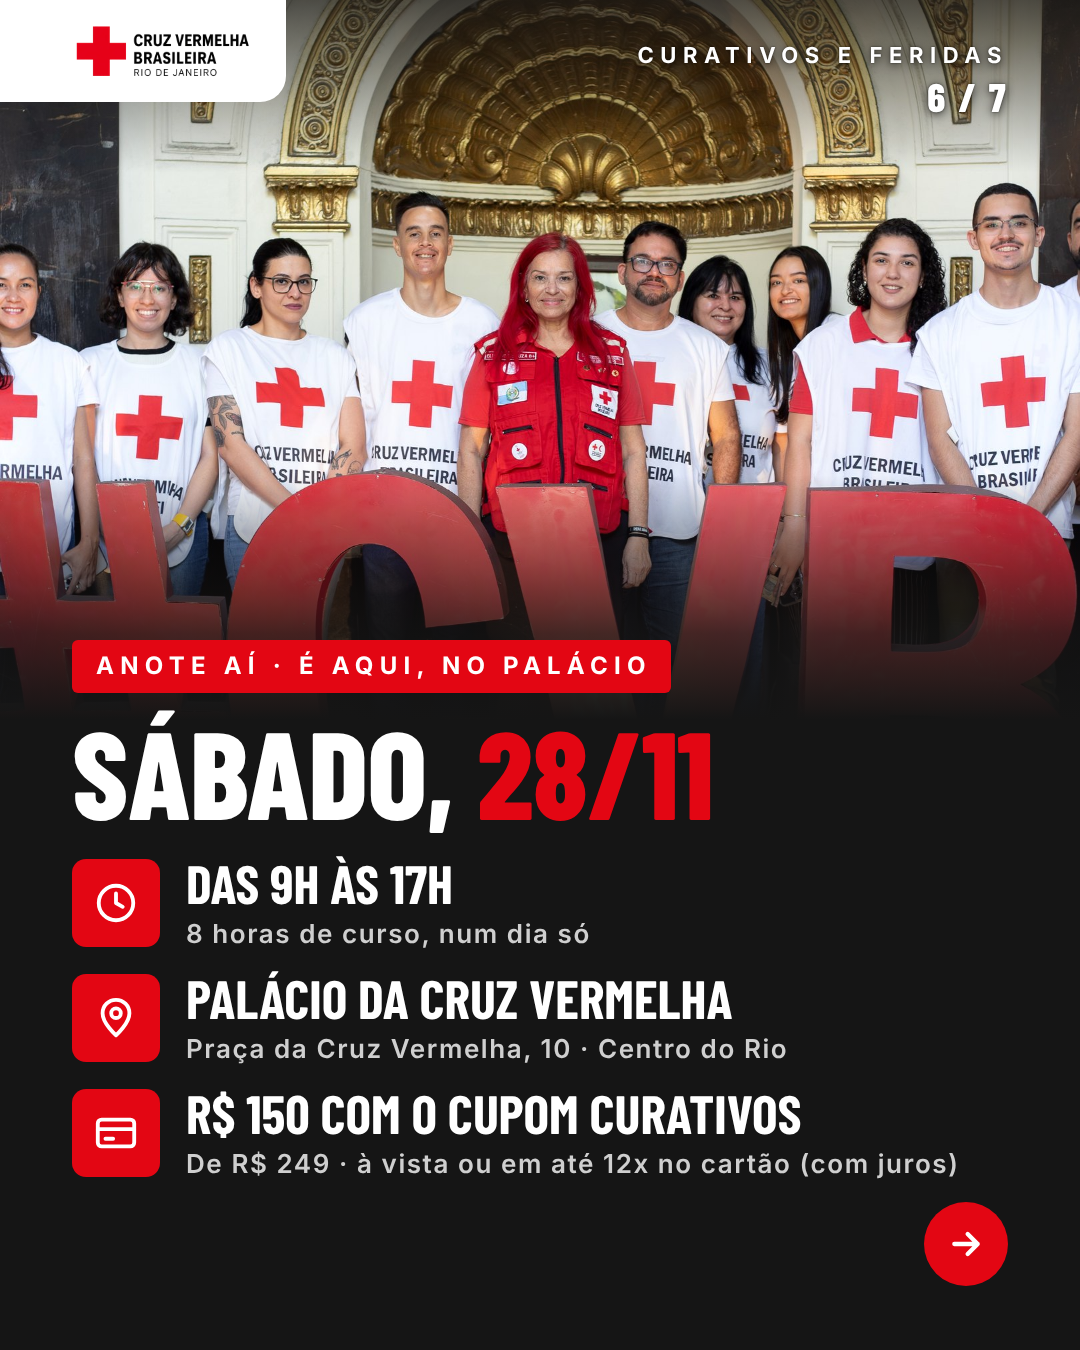
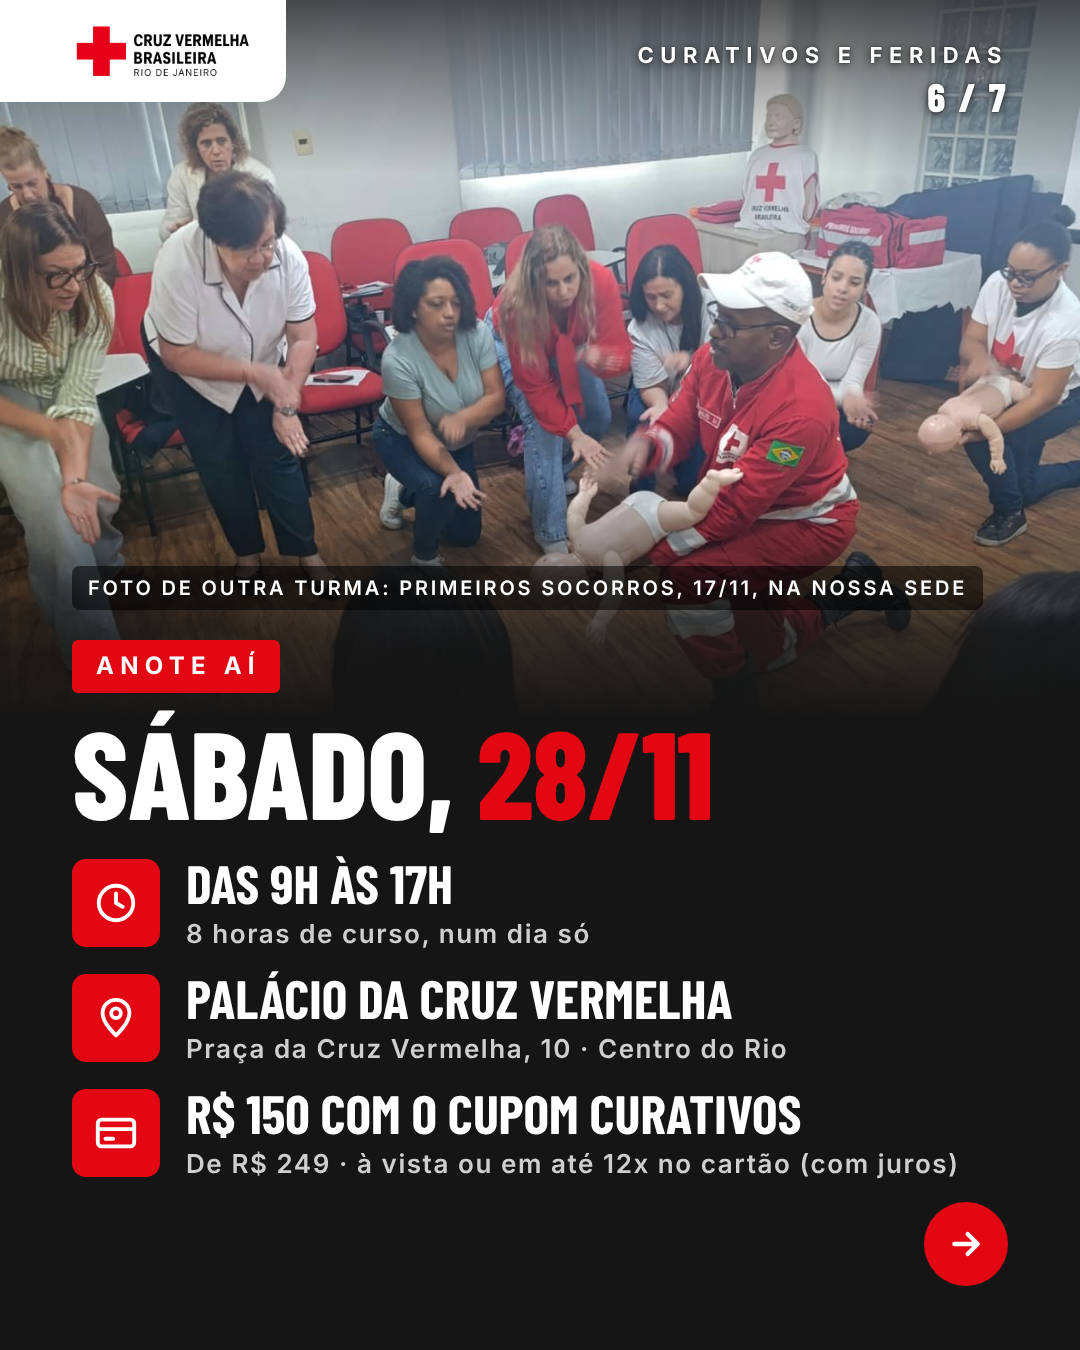
Carrossel de Curativos: slide 6 com foto de treinamento da turma de 17/11
Claude-Session: https://claude.ai/code/session_018phLKcwd6cnmyNAojLSjcG

diff --git a/docs/criativos/carrossel-curativos-28-11/carrossel.html b/docs/criativos/carrossel-curativos-28-11/carrossel.html
@@ -183,7 +183,7 @@ p.t b{color:#fff;font-weight:700}.claro p.t b{color:var(--ink)}
 
 <!-- 6. QUANDO, ONDE, QUANTO -->
 <section class="s" id="s6">
-  <div class="foto" style="height:720px;background-image:url(img/saguao.jpg);background-size:1080px auto;background-position:50% 12%"></div>
+  <div class="foto" style="height:720px;background-image:url(img/treino.jpg);background-size:1080px auto;background-position:50% 22%"></div>
   <style>
     #s6 .foto::after{background:linear-gradient(180deg,rgba(21,21,21,.72) 0%,rgba(21,21,21,0) 24%,rgba(21,21,21,0) 66%,rgba(21,21,21,.8) 88%,#151515 100%)}
     #s6 ul{list-style:none;display:grid;gap:22px}
@@ -195,8 +195,9 @@ p.t b{color:#fff;font-weight:700}.claro p.t b{color:var(--ink)}
   </style>
   <div class="logo p"><img src="img/logo.png" alt=""></div>
   <div class="num">Curativos e feridas<b>6 / 7</b></div>
+  <div class="cred" style="left:72px;top:566px">Foto de outra turma: Primeiros Socorros, 17/11, na nossa sede</div>
   <div class="c" style="top:640px">
-    <span class="tag">Anote aí · é aqui, no Palácio</span>
+    <span class="tag">Anote aí</span>
     <h2 style="margin-top:18px;font-size:124px">Sábado, <span style="display:inline">28/11</span></h2>
   </div>
   <div class="c" style="top:856px;right:72px">

diff --git a/docs/criativos/carrossel-curativos-28-11/LEIAME.md b/docs/criativos/carrossel-curativos-28-11/LEIAME.md
@@ -3,8 +3,7 @@
 - `slide-1.png` a `slide-7.png`: as artes prontas (4:5, 1080x1350), na ordem de publicação.
 - `carrossel.html` é a fonte; `node render.js` (Playwright) regenera os PNG.
 - Fotos reais, sem banco de imagem: a turma de Primeiros Socorros de 17/11/2026 na sede (enviadas pelo Matheus; slides
-  1 e 4), a equipe no saguão do Palácio (post do Instagram de 28/05/2026; slide 6) e a equipe em frente ao Palácio
-  (post do Instagram de 25/09/2026; slide 7). Não há foto de aula de curativos: o slide 4 diz de que turma é a foto, e a legenda também.
+  1, 4 e 6) e a equipe em frente ao Palácio (post do Instagram de 25/09/2026; slide 7). Não há foto de aula de curativos: o slide 4 diz de que turma é a foto, e a legenda também.
 - Passou por uma segunda avaliação, independente, antes de fechar (nota 7 na primeira versão); as correções dela
   estão aplicadas: prazo e público na capa, requisito de ensino médio, recortes das fotos e crédito das fotos.
 - Estrutura: 1 pergunta-gancho · 2 a dúvida de quem cuida de feridas · 3 o que se aprende · 4 como é a aula ·
@@ -54,5 +53,5 @@ O curso é de aperfeiçoamento: não substitui a formação profissional nem amp
 3. Texto: O que você aprende, da avaliação ao curativo. Tipos de feridas e cicatrização; avaliação e classificação das lesões; limpeza, antissepsia e biossegurança; coberturas: qual usar e quando; curativos simples e especiais; lesão por pressão: prevenção e cuidados.
 4. Duas alunas praticam uma técnica em dupla, observadas pela turma (foto de outra turma: Primeiros Socorros de 17/11, na sede). Texto: Como é a aula: aqui se aprende fazendo. Demonstração das técnicas, aplicação de coberturas, práticas simuladas.
 5. Texto: Público e certificado: feito para quem é da saúde. Profissionais e estudantes da área da saúde, com 18 anos ou mais, ensino médio e conhecimentos básicos na área. Certificado da Cruz Vermelha Brasileira – Filial Rio de Janeiro, 8 horas. Curso de aperfeiçoamento: não substitui a formação profissional nem amplia as atribuições legais de cada categoria.
-6. Equipe da Cruz Vermelha, de colete branco, no saguão do Palácio, sob um arco dourado. Texto: Anote aí, é aqui, no Palácio. Sábado, 28/11, das 9h às 17h. Palácio da Cruz Vermelha, Praça da Cruz Vermelha, 10, Centro do Rio. R$ 150 com o cupom CURATIVOS (de R$ 249), à vista ou em até 12x no cartão, com juros.
+6. Instrutor da Cruz Vermelha, de uniforme vermelho, demonstra uma manobra enquanto as alunas praticam em volta (foto de outra turma: Primeiros Socorros de 17/11, na sede). Texto: Anote aí. Sábado, 28/11, das 9h às 17h. Palácio da Cruz Vermelha, Praça da Cruz Vermelha, 10, Centro do Rio. R$ 150 com o cupom CURATIVOS (de R$ 249), à vista ou em até 12x no cartão, com juros.
 7. Equipe da Cruz Vermelha, de colete branco e uniforme vermelho, em frente ao Palácio. Texto: A gente espera você no Palácio. Inscrições até sexta, 27/11. Link na bio. Cupom CURATIVOS já aplicado no site: R$ 150. Dúvidas? WhatsApp da Secretaria: (21) 99992-2864.
